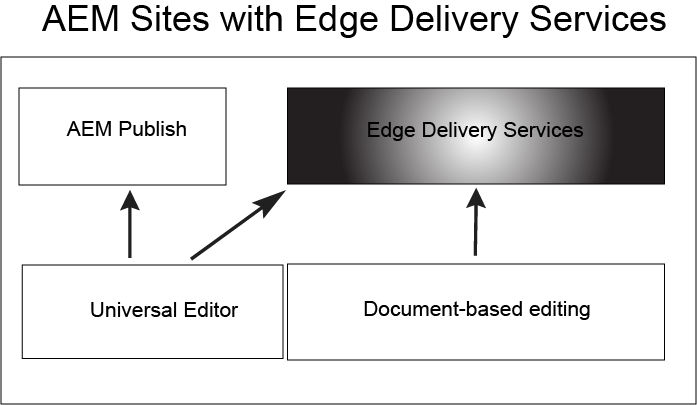
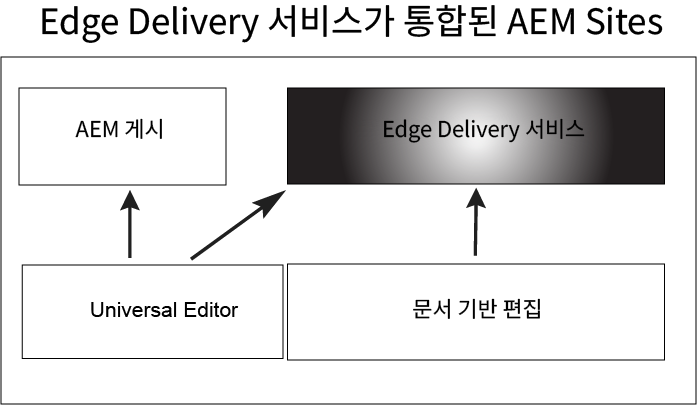
Updated by task 'AUTO_HANDOFF_PRIORITY_1702638805977'  Changes for core/source commit https://git.corp.adobe.com/AdobeDocs/experience-manager-cloud-service.en/commit/0d03e3794acc6e08487a9bc3c0f09f11432e2157

diff --git a/help/edge/using.md b/help/edge/using.md
@@ -1,52 +1,52 @@
 ---
 title: Edge Delivery Services 사용
-description: AEM as a Cloud Service을 Edge Delivery Services과 함께 사용하는 방법에 대해 알아봅니다.
+description: AEM as a Cloud Service를 Edge Delivery Services와 함께 사용할 수 있는 방법에 대해 알아봅니다.
 feature: Edge Delivery Services
 exl-id: 41999302-b4c9-4f5a-b659-6e7398a3c4f4
 source-git-commit: 5b24b984ea738096ef67b72a3d96e9b5931d2200
-workflow-type: tm+mt
+workflow-type: ht
 source-wordcount: '385'
-ht-degree: 15%
+ht-degree: 100%
 
 ---
 
 
 # Edge Delivery Services 사용 {#usingedge}
 
-Edge Delivery Services을 사용하면 작성자가 콘텐츠를 빠르게 업데이트하고 게시할 수 있고 새 사이트를 빠르게 시작할 수 있는 신속한 개발 환경을 만들 수 있습니다. 이를 위해 동일한 웹 사이트에서 여러 콘텐츠 소스로 작업하고, 선택한 소스에 관계없이 게시를 간소화할 수 있습니다. 따라서 인터넷에서 라이브로 콘텐츠를 편집하고 보는 데까지 단 몇 초밖에 걸리지 않습니다.
+Edge Delivery Services를 사용하면 작성자가 콘텐츠를 빠르게 업데이트 및 게시하고 새 사이트를 신속하게 시작할 수 있는 빠른 개발 환경을 제작할 수 있습니다. 이를 위해 동일한 웹 사이트에서 여러 콘텐츠 소스로 작업하고, 선택한 소스에 관계없이 게시를 간소화할 수 있습니다. 따라서 인터넷에서 라이브로 콘텐츠를 편집하고 보는 데까지 단 몇 초밖에 걸리지 않습니다.
 
-Edge Delivery Services은 컨텐츠 소스에서 분리되고, 다른 컨텐츠 소스에서 컨텐츠를 수집할 수 있습니다.
+Edge Delivery Services는 콘텐츠 소스에서 분리되며 다양한 콘텐츠 소스의 콘텐츠를 수집할 수 있습니다.
 
-![Edge 전달을 위한 콘텐츠 소스](assets/content-sources.png)
+![Edge Delivery용 콘텐츠 소스](assets/content-sources.png)
 
-여러 콘텐츠 소스에서 수집하면 사용자에게 최대한의 유연성을 제공합니다. Adobe은 프로젝트에 가장 적합한 콘텐츠 소스를 선택하는 데 도움이 되는 지침을 제공합니다.
+여러 콘텐츠 소스에서 수집하면 사용자에게 최대의 유연성이 제공됩니다. Adobe에서는 프로젝트에 가장 적합한 콘텐츠 소스를 선택하는 데 도움이 되는 지침을 제공합니다.
 
-콘텐츠 소스가 미리 정의되거나 유연하지 않은 경우가 있습니다(예: 프로젝트에서 Sharepoint 또는 Google 드라이브를 사용할 수 없음). 그러나 많은 경우, 도구가 미리 정해져 있지 않으며 도구의 선택이 흑백은 아닙니다.
+콘텐츠 소스가 미리 정의되어 있거나 유연하지 않은 경우가 있습니다(예: 프로젝트에서 Sharepoint 또는 Google 드라이브를 사용할 수 없음). 그러나 대부분의 경우 도구는 미리 정의되어 있지 않으며 선택할 수 있는 도구 또한 다양합니다.
 
-Adobe의 유도 원리는 단순함입니다. 문서 기반 작성으로 시작하여 필요할 때 복잡성을 추가하십시오. 도구 변경이 필요한 경우 AEM Edge Delivery Services 통합에서 컨텐츠 마이그레이션을 다룹니다.
+Adobe의 안내 원칙은 단순성입니다. 문서 기반 작성으로 시작하고 필요할 때 복잡성을 추가해 보십시오. 도구 변경이 필요한 경우, AEM의 Edge Delivery Services 통합에 콘텐츠 마이그레이션이 포함됩니다.
 
-![컨텐츠 소스 유연성](assets/content-source-flexiblity.png)
+![콘텐츠 소스 유연성](assets/content-source-flexiblity.png)
 
 ## 작성 {#authoring-edge}
 
-Edge Delivery Services을 사용하면 쉽고 빠르고 유연하게 작성할 수 있습니다. 문서 기반 작성을 사용하여 작성하거나 범용 편집기를 사용하여 AEM에서 작성하도록 선택할 수 있습니다.
+Edge Delivery Services를 사용하여 쉽고, 빠르고, 유연하게 콘텐츠를 작성할 수 있습니다. Universal Editor를 통해 문서 기반 작성을 사용하거나 AEM에서 작성하도록 선택할 수 있습니다.
 
-문서를 참조하십시오. [Edge Delivery Services 컨텐츠 작성](authoring.md) 추가 정보.
+자세한 내용은 [Edge Delivery Services용 콘텐츠 작성](authoring.md) 문서를 참조하십시오.
 
 ## 게시 {#publishing-edge}
 
-Edge Delivery Services을 사용하면 콘텐츠 소스에 관계없이 콘텐츠를 원활하게 게시할 수 있습니다.
+Edge Delivery Services를 사용하여 콘텐츠 소스에 관계없이 원활하게 콘텐츠를 게시합니다.
 
-문서를 참조하십시오. [Edge Delivery Services 컨텐츠 게시](publishing.md) 추가 정보.
+자세한 내용은 [Edge Delivery Services용 콘텐츠 게시](publishing.md) 문서를 참조하십시오.
 
 ## 개발 {#developing-edge}
 
-Edge Delivery Services은 블록의 개념을 기반으로 합니다. AEM에는 프로젝트 요구 사항에 맞게 확장할 수 있는 사전 정의된 블록의 포괄적인 라이브러리가 포함되어 있습니다. Edge Delivery Services 프로젝트에 대한 코드는 GitHub에서 관리됩니다.
+Edge Delivery Services는 블록 개념을 기반으로 합니다. AEM에는 프로젝트 요구 사항을 충족하도록 확장할 수 있는 사전 정의된 블록의 포괄적인 라이브러리가 함께 제공됩니다. Edge Delivery Services 프로젝트의 코드는 GitHub에서 관리됩니다.
 
-문서를 참조하십시오. [Edge Delivery Services을 위한 개발](developing.md) 추가 정보.
+자세한 내용은 [Edge Delivery Services용 개발](developing.md) 문서를 참조하십시오.
 
 ## 기존 AEM 프로젝트 {#existing-projects}
 
-새 AEM 프로젝트가 Edge Delivery Services의 혜택을 받을 때까지 기다릴 필요가 없습니다. Edge Delivery Services을 기존 AEM 프로젝트에 통합할 수 있으므로 성능 향상을 즉시 활용할 수 있습니다.
+새로운 AEM 프로젝트가 Edge Delivery Services의 이점을 얻을 수 있을 때까지 기다릴 필요가 없습니다. Edge Delivery Services를 기존 AEM 프로젝트에 통합하여 성능 향상을 즉시 활용할 수 있습니다.
 
-문서를 참조하십시오. [기존 AEM 프로젝트와 함께 Edge Delivery Services 사용](existing-projects.md) 추가 정보.
+자세한 내용은 [기존 AEM 프로젝트와 함께 Edge Delivery Services 사용](existing-projects.md) 문서를 참조하십시오.

diff --git a/help/release-notes/home.md b/help/release-notes/home.md
@@ -3,9 +3,9 @@ title: Adobe Experience Manager (AEM) as a Cloud Service 릴리스 정보
 description: Adobe Experience Manager (AEM) as a Cloud Service 릴리스 정보
 exl-id: 05b9e51f-467e-4c8e-baea-b1cf832597cd
 source-git-commit: 626f38141bafba8f5463c8793d52ea15448ed433
-workflow-type: tm+mt
+workflow-type: ht
 source-wordcount: '599'
-ht-degree: 99%
+ht-degree: 100%
 
 ---
 

diff --git a/help/edge/overview.md b/help/edge/overview.md
@@ -4,7 +4,7 @@ description: AEM as a Cloud Service가 Edge Delivery Services에서 제공하는
 feature: Edge Delivery Services
 exl-id: 03a1aa93-d2e6-4175-9cf3-c7ae25c0d24e
 source-git-commit: 9d26a4835dc331f2ff8b741a4c14847ead611874
-workflow-type: tm+mt
+workflow-type: ht
 source-wordcount: '838'
 ht-degree: 100%
 
